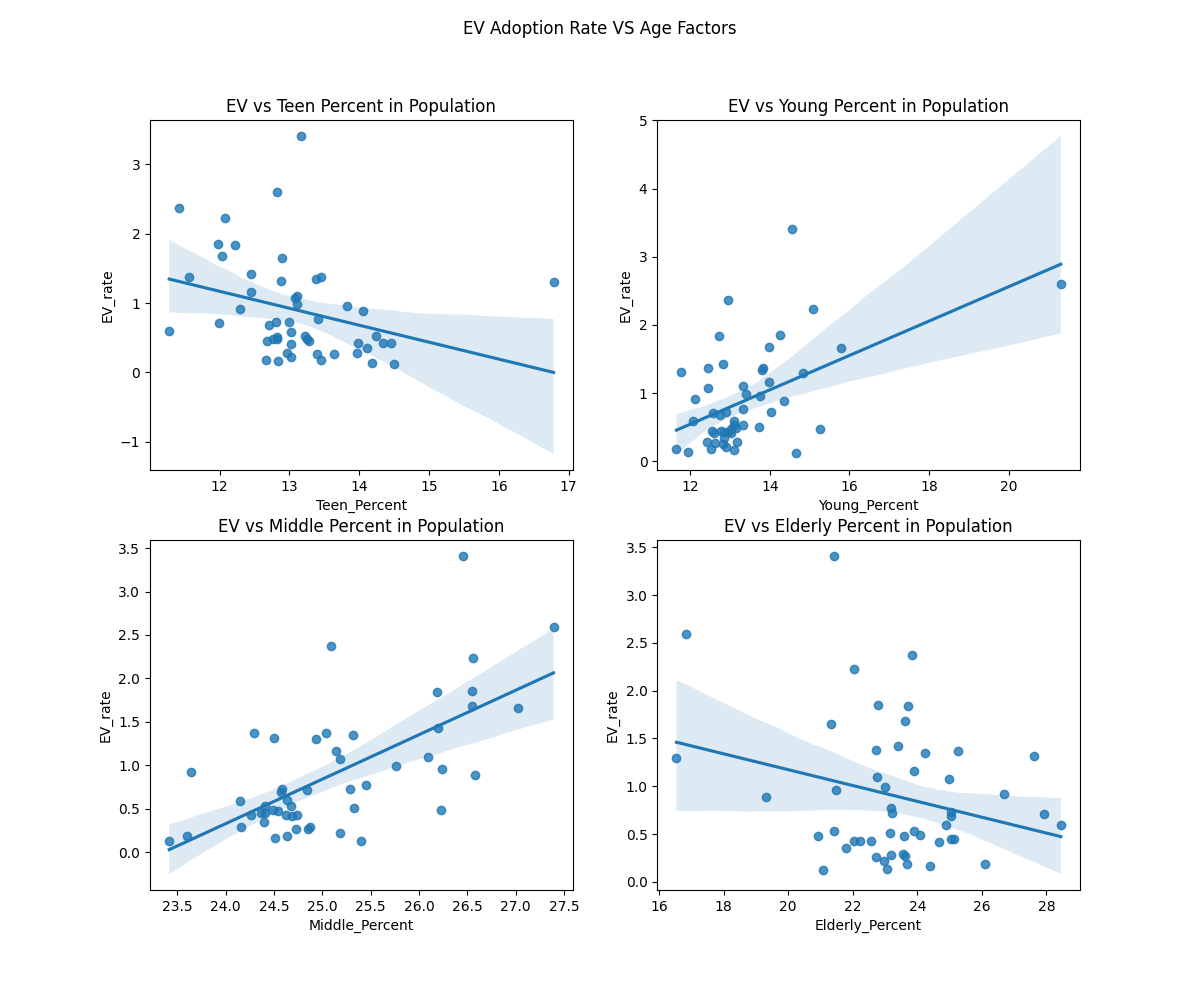
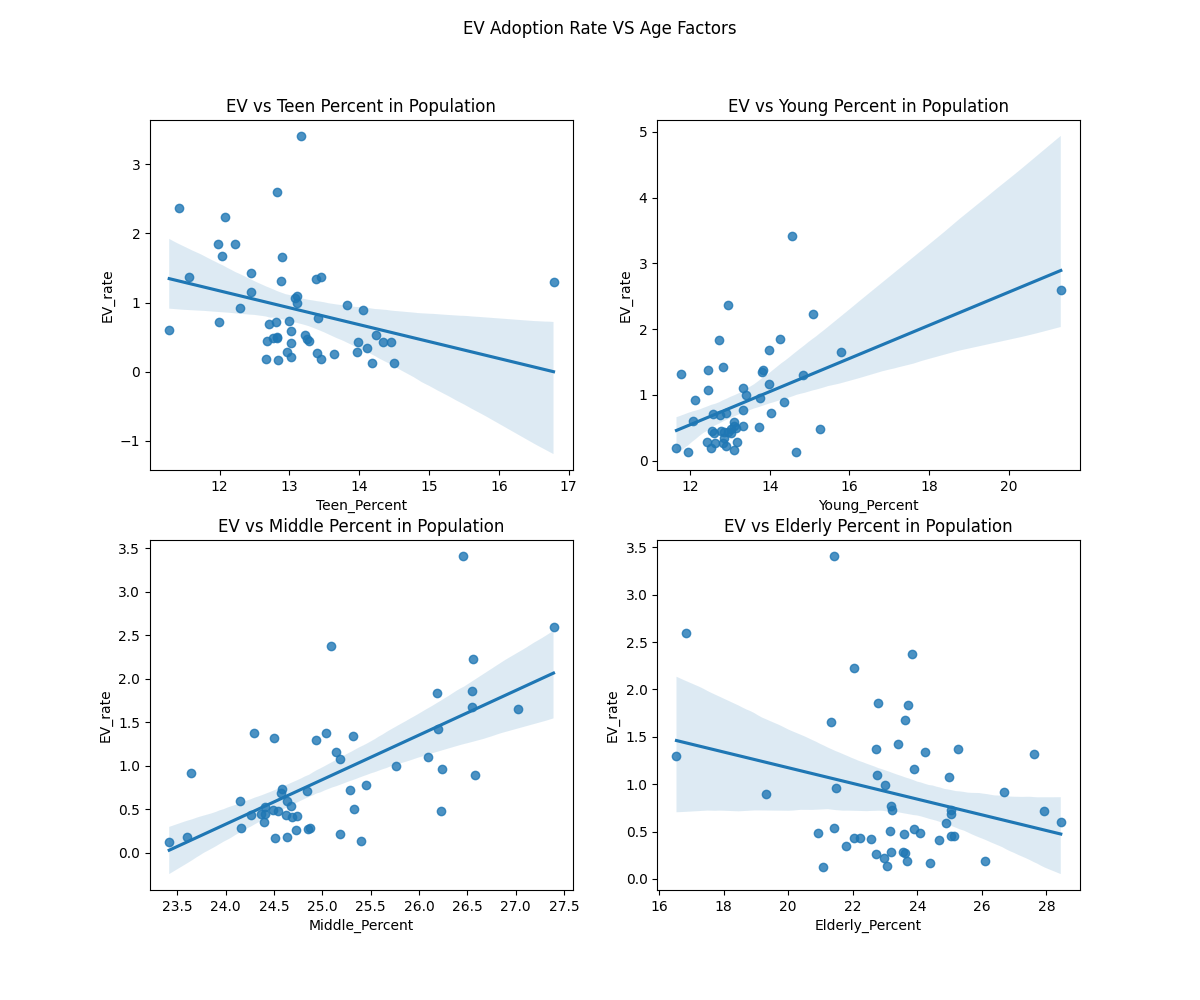
readme, plots, py updated

diff --git a/src/analyze_visualize.py b/src/analyze_visualize.py
@@ -43,6 +43,8 @@ def plot_EV_rate_info():
     )
     # save the figure as html for interaction
     fig.write_html("../results/plots/EV_adoption_rate_info.html")
+    # save the figure as PNG for github use
+    fig.write_image("../results/plots/EV_adoption_rate_info.png")
 
 ########## Part 2: Linear Regression graphs ##########
 def plot_non_age_factor():
@@ -165,15 +167,15 @@ def stats_table_df():
     stats_df = pd.DataFrame(results)
     return stats_df
 
-# save the dataframe for ploting
-stats_df = stats_table_df()
-
-def stats_table():
+def plot_stats_table():
     """
     This function will plot a table that have all factor's
     r-value and p-value for comparasion by using plotly.graph_objects
     refering plotly library
     """
+    # save the dataframe for ploting
+    stats_df = stats_table_df()
+
     # plot the table
     fig = go.Figure(data=[go.Table(
         # header row is the columns's name of the table_df
@@ -196,4 +198,4 @@ plot_age_factor()
 plot_distribution()
 
 # stats table
-stats_table()
+plot_stats_table()

diff --git a/src/get_data.py b/src/get_data.py
@@ -129,7 +129,7 @@ def get_acs_raw():
     df = pd.DataFrame(data[1:], columns=data[0])
     df.to_csv("../data/raw/acs_raw.csv", index=False)
 
-########## Part 4: Calling Functions to Get Raw Data ##########
+########## Part 4: Function Calling ##########
 # State name and its abbr
 state_name = "https://www.faa.gov/air_traffic/publications/atpubs/cnt_html/appendix_a.html"
 web_scrape(state_name, "state_name_raw", 1)

diff --git a/README.md b/README.md
@@ -2,22 +2,43 @@
 Author: Minyun Wang
 
 ### Project Description:
+This project is designed to answer the question: **What factors impact EV adoption?**  
+
+Five datasets are used to analyze the question with a total of eight factors, including `gas price`, `charging station counts`, `income`, `education level`, and four `age group` variables. After cleaning and merging the data, visualizations are generated to examine the relationships between these factors and EV adoption rates.
 
 ### Repository Structure/File Routine
 In this repository, there are 3 major folders and several supportive files.
 
+```text
+DSCI510_Final_Project/
+├── README.md
+├── requirements.txt  # all the packages need to install for python coding file
+├── proposal.pdf
+├── data/
+│   ├── raw/          # raw datasets collected from sources in .txt and .csv file type
+│   └── processed/    # cleaned datasets all in .csv file type
+├── results/
+│   ├── final_report.pdf
+│   └── plots/        # final plots will be stored here, interactive graph in .html, other in .png
+├── src/
+│   ├── get_data.py
+│   ├── clean_data.py
+│   ├── integrate_data.py
+│   └── analyze_visualize.py
+```
+
 ---
 # `get_data.py`
-In this coding file, all the functions are designed to pull raw data from web and store in the `data/raw` folder.
+In this coding file, all the functions are designed to pull raw data from web and store in the `data/raw` folder. All function use was guided/referenced from package library, please see citiation in `final_report.pdf`. 
 
 There are 4 parts in this coding file, will explaned one by one and a **How to work** section:
 - Part 1: Web Table Data Scraper
 - Part 2: Using Pandas to Extract data
 - Part 3: 2023 ACS Extraction
-- Part 4: Calling Functions to Get Raw Data
+- Part 4: Function Calling
 
 ## Part 1: Web Table Data Scraper
-`web_scrape(url:str, file_name:str, table_nums:int)`:
+### `web_scrape(url:str, file_name:str, table_nums:int)`:
 
 This function is used to store a `.txt` file containing all tables extracted from a web page. Since both the `state and abbreviation` data and the `2023 gasoline price by state` data use the same scraping method, this function is designed to use for both data web pages.
 
@@ -27,54 +48,44 @@ Input Explanation:
 - `table_nums`: This is a int input used for extract how many tables is wanted from the url page. 
 
 ## Part 2: Using Pandas to Extract data
-`pds_extract(url:str, file_name:str)`:
+### `ev_reg_raw()`:
+This function scrape the data table from the web of ***afdc.energy.gov***. By using `.read_html()` from pandas package to get the `car registration` table then turn into dataframe. Then store the data in a `csv` file in assigned file path. 
 
-This function is used to store a `.csv` raw data file which containg tables extracted from *afdc.energy.gov*. Since the `EV registration in 2023` and `EV charging ports in 2023` data use the same extracting method by pandas, this function is designed to use for both datasets. 
-
-Input Explanation:
-- `url`: This is a string input which indicate the url link.
-- `file_name`: This is a string input used for file name path set up.
+### `ev_port_raw()`:
+This function is used to scrape the excel data from ***afdc.energy.gov***. By using `.read_excel` to get the data of `ev charging ports numbers` and convert as a dataframe. Then store the raw data in a `csv` file in assigned file path. 
 
 ## Part 3: 2023 ACS Extraction
-In this part there the first part is pre-set for url link and second part is the function to extract data then save as a `.csv` file.
+In this part, there 2 sections, first section is pre-set for url link and second section is the function to extract data then save as a `.csv` file.
 
-All the variable name could refer to https://api.census.gov/data/2023/acs/acs1/variables.html. For api capture info could refer to https://www.census.gov/data/developers/data-sets/acs-1year.2023.html#list-tab-843855098.
+- For api capture info could refer to https://www.census.gov/data/developers/data-sets/acs-1year.2023.html#list-tab-843855098.
 
-Variable Name Index：
-- `B19013_001E`: income
-- `B15003_001E,B15003_022E,B15003_023E,B15003_024E,B15003_025E`: education level population
-- `B01001_006E,B01001_007E,B01001_008E,B01001_009E,B01001_010E`: male(15-24) population
-- `B01001_030E,B01001_031E,B01001_032E,B01001_033E,B01001_034E`: female(15-24) population
-- `B01001_011E,B01001_012E`: male(25-34) population
-- `B01001_035E,B01001_036E`: female(25-34) population
-- `B01001_013E,B01001_014E,B01001_015E,B01001_016E`: male(35-54) population
-- `B01001_037E,B01001_038E,B01001_039E,B01001_040E`: female(35-54) population
-- `B01001_017E,B01001_018E,B01001_019E,B01001_020E,B01001_021E,B01001_022E`: male(55-74) population
-- `B01001_041E,B01001_042E,B01001_043E,B01001_044E,B01001_045E,B01001_046E`: female(55-74) population
+Variable Name Index
+- Income (`B19013_001E`)
+- Education levels (`B15003_*`)
+- Population by age and gender (`B01001_*`)
+- For full variable definitions, see: https://api.census.gov/data/2023/acs/acs1/variables.html
 
 By merging variable name and api capture info, the url is created and stored in `url` variable.
 
-`get_acs_raw()`
+#### `get_acs_raw()`
 This function is used to store a `.csv` file that stores the ACS 2023 data, which can be directly called. 
 
-## Part 4: Calling Functions to Get Raw Data
+## Part 4: Function Calling
 In this part, all data link was store to its correspond variable and then call all the functions defined earlier, then the raw data file will be stored as file path that defined in the functions. 
 
 Data Links:
 - State name and its abbr: `https://www.faa.gov/air_traffic/publications/atpubs/cnt_html/appendix_a.html`
 - Gasoline price in 2023: `https://www.visualcapitalist.com/mapped-gas-prices-in-every-u-s-state/` 
-- EV car registration in 2023: `https://afdc.energy.gov/vehicle-registration?year=2023` 
-- EV ports counts in 2023: `"https://afdc.energy.gov/stations/states?count=total&include_temporarily_unavailable=false&date=2023-12-31"`
-- ***p.s.*** ACS 2023 dataset link was defined in the coding file
+- ***p.s.*** Other dataset link was defined in the coding file
 
 ## How do `get_data.py` work
-Run following code in terminal:
+Run the following command in the terminal (make sure you are in the project root directory):
 ```python
-python3 get_data.py
+python3 src/get_data.py
 ```
 All Raw data files will stored in `data/raw` folder accordingly.
 
-***PS.*** There is a small chance that if a Error raise for `web_scrape(gas_price, "gas_price_raw", 2)` due to changes in the source website, please open the following link:
+***PS.*** There is a small chance that if a Error raise for `web_scrape(gas_price, "gas_price_raw", 2)` due to changes in the source website, if re-run the file doesn't work, please open the following link:
 
 https://www.visualcapitalist.com/mapped-gas-prices-in-every-u-s-state/
 
@@ -84,3 +95,122 @@ After updating, save the file and rerun the script.
 ---
 
 # `clean_data.py`
+In this python coding file, all functions are designed to clean the raw data file that created by `get_data.py`, after cleaning process the cleared data file will be saved in `data/processed` folder as `csv` files. All function use was guided/referenced from package library, please see citiation in `final_report.pdf`. 
+
+There are 4 parts in this coding file, will explaned one by one and a **How to work** section:
+- Part 1: Clean Raw Data: `txt` format
+- Part 2: Clean Raw Data: `csv` format
+- Part 3: Save Cleaned Data in `csv`
+- Part 4: Function Calling
+
+## Part 1: Clean Raw Data: `txt` format
+### `clean_state_name()`
+This function is used to clean the `state name and abbr` dataset, and finally will return the cleared data as a `dataframe`. The final dataframe will contain `State` and `Abbr` variable for futher use. 
+
+### `clean_gas_price()`
+This function is used to clean the `gas price` dataset, and return the cleared data as a `dataframe`. The cleaned data will contain `State`, `gas_price`, and `gas_price_rank` for futher use. 
+
+## Part 2: Clean Raw Data: `csv` format
+### `clean_ev_reg()`
+This function is used to clean `ev registration` file, and calculate ratio variables for further use. In the function, data will be cleared, calculated, and converted to target variable type. Finally, the function will return a `dataframe`. 
+
+### `clean_ev_port()`
+In this function, `ev charging ports` data will be cleared, calculted and converted to target variable type. And the function will return a `dataframe`. 
+
+### `clean_acs()`
+This function will clean the `ACS` dataset, by renaming, calculating, and converting value type. After cleaning process the function will return the cleaned data `dataframe`. 
+
+## Part 3: Save Cleaned Data in `csv`
+### `save_cleaned_df(function_name:function, filename:str)`
+This function will take 2 required inputs, which will save the cleaned dataframe as a `csv` file in `data/processed` folder.
+
+Input Explanation:
+- `function_name`: This is a function input which should input the cleaning function that returns a dataframe.
+- `filename`: This is a string input used for file name path set up.
+
+## Part 4: Function Calling
+In this part, `save_cleaned_df()` was called to store all cleared dataset as `csv` file into `data/processed` folder.
+
+## How do `clean_data.py` work
+Run the following command in the terminal (make sure you are in the project root directory):
+```python
+python3 src/clean_data.py
+```
+All cleaned data files will stored in `data/processed` folder accordingly.
+
+---
+# `intergrate_data.py`
+This python coding file is used to merge all cleaned data into one dataframe then saved as a final data `csv` file into `data/processed`. Also import all the functions from the `clean_data.py` can directly get the cleaned dataframes.
+
+There are 3 parts in this coding file, will explaned one by one and a **How to work** section:
+- Part 1: Merge Dataframe
+- Part 2: Save Final Dataframe
+- Part 3: Function Calling
+
+## Part 1: Merge Dataframe
+### `merge_df()`
+This function will merge all the datasets into one dataframe based on one primary key `"State"`, after all merging process, will return the final data as a dataframe.
+
+## Part 2: Save Final Dataframe
+### `save_merged_df(function_name:function, filename:str)`
+This function will take 2 required inputs, which will save the final dataframe as a `csv` file in `data/processed` folder.
+
+Input Explanation:
+- `function_name`: This is a function input which should input the cleaning function that returns a dataframe.
+- `filename`: This is a string input used for file name path set up.
+
+## Part 3: Function Calling
+In this part, `save_merged_df()` was called to store Final merged dataset as `FINAL_DATA.csv` file into `data/processed` folder.
+
+## How do `integrate_data.py` work
+Run the following command in the terminal (make sure you are in the project root directory):
+```python
+python3 src/integrate_data.py
+```
+The final data files will stored in `data/processed` folder as `FINAL_DATA.csv` accordingly.
+
+---
+# `analyze_visualize.py`
+In this coding file, functions are designed to plot visualizations to support analyze. All function use was guided/referenced from package library, please see citiation in `final_report.pdf`. After runing the code file, all plots will be saved into `results/plots` folder. 
+
+There are 5 parts in this coding file, will explaned one by one and a **How to work** section:
+- Part 1: General Info Graph
+- Part 2: Linear Regression graphs
+- Part 3: Distribution Graph
+- Part 4: Statistical Results Table
+- Part 5: Function Calling
+
+## Part 1: General Info Graph
+### `plot_EV_rate_info()`
+This function will plot an interactive choropleth map by using `plotly.express.choropleth()`. This plot is designed to see and comparing `ev_adoption_rate` by color, the lighter the blue, the lower the adoption rate. Also, when hover over each state can see some additional information which includes some factor's ranking. 
+
+The interactive graphs are saved in both `.png` and `.html` formats.
+- The `.png` file provides a preview that can be viewed directly on GitHub.  
+- The `.html` file contains the full interactive version of the graph. Since GitHub does not show `.html` files, please download the file and open it locally to view the interactive features.
+
+## Part 2: Linear Regression graphs
+### `plot_non_age_factor()`
+This function will generate a figure with 4 subplots by using `matplotlib.pyplot` and `sns.regplot()`, that each showing a linear regression plot of one non-age factor and ev adoption rate. 
+
+### `plot_age_factor()`
+This function will generate a figure with 4 subplots by using `matplotlib.pyplot` and `sns.regplot()`, that each showing a linear regression plot of one age-related factor and ev adoption rate. 
+
+## Part 3: Distribution Graph
+This function will produce a distribution plot of ev adpotation rate with some customized design, by using `matplotlib.pyplot`.
+
+## Part 4: Statistical Results Table
+### `stats_table_df()`
+This function creates the dataframe of `r-value` and `p-value` of each factors. The statistical calcultaion was calculated by `scipy`packages. 
+
+### `plot_stats_table()`
+By using the `plotly.graph_objects`, this function creates a table plot that shows each factor's `r-value` and `p-value`.
+
+## Part 5: Function Calling
+In this part, all `plot_` series functions will be called to store all plots image into `results/plots` folder, either as a `png` file or `html` file.
+
+## How do `analyze_visualize.py` work
+Run the following command in the terminal (make sure you are in the project root directory):
+```python
+python3 src/analyze_visualize.py
+```
+All visual plots will stored in `results/plots` folder as `png` and an interactive plot saved in `html` accordingly.